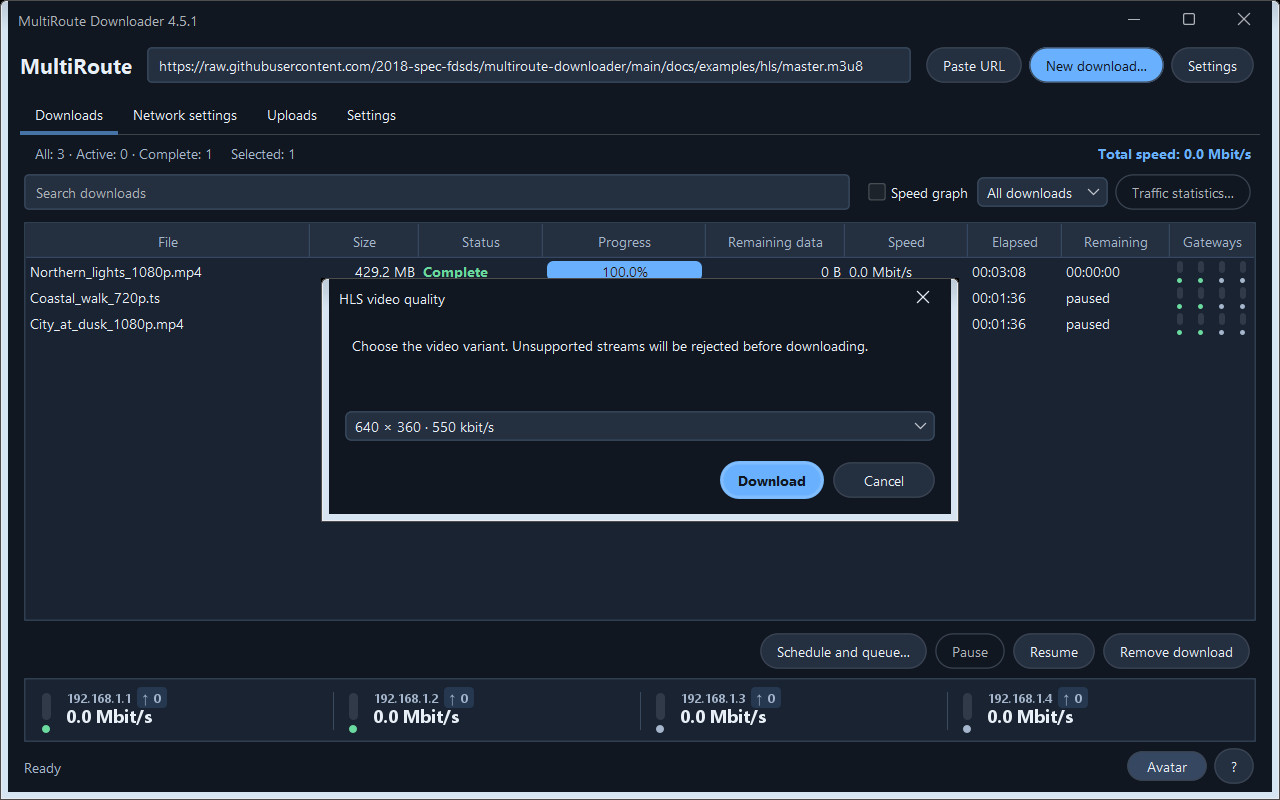
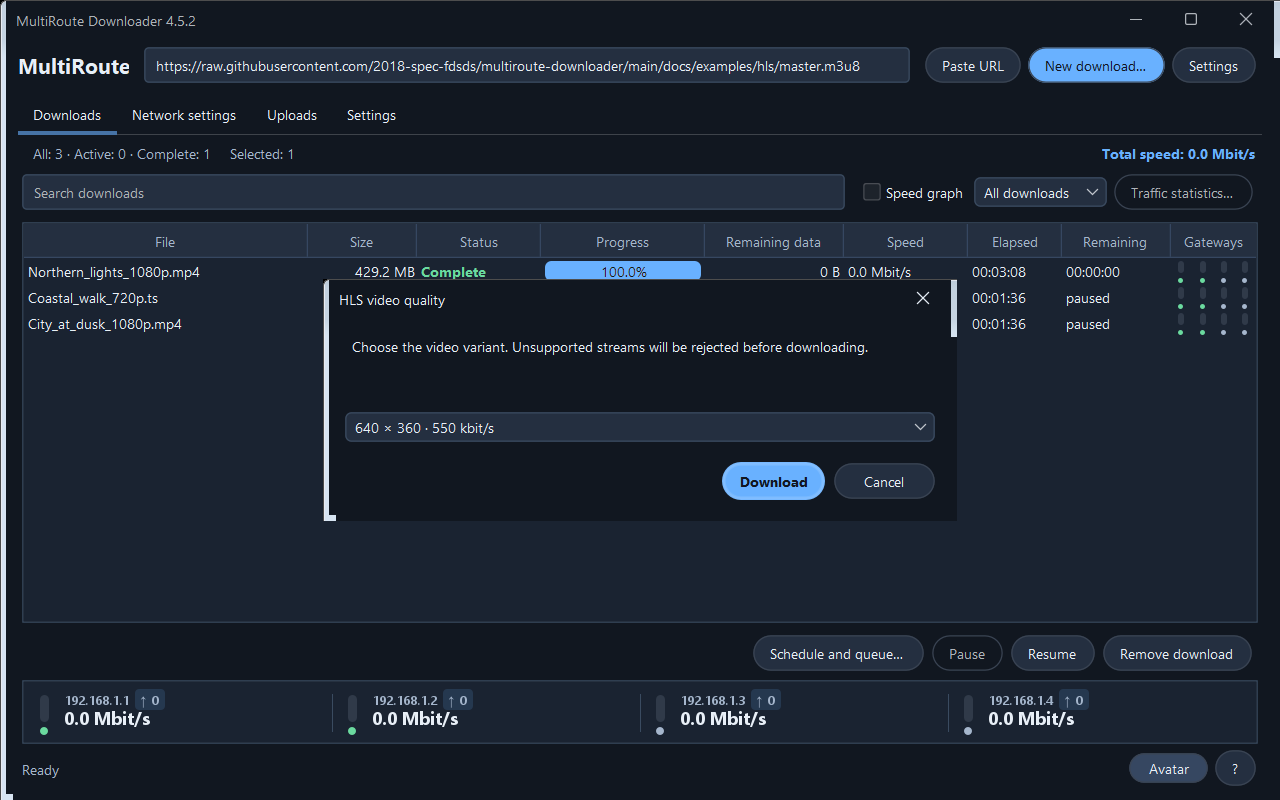
Update illustrated HLS walkthrough and current screenshots

diff --git a/docs/hls/HLS-CHROME-EDGE.ru.md b/docs/hls/HLS-CHROME-EDGE.ru.md
@@ -2,7 +2,7 @@
 
 [English](HLS-CHROME-EDGE.en.md)
 
-> Требуется **MultiRoute Downloader 4.5.0 или новее** и расширение с обнаружением HLS. Иллюстрации интерфейса сняты в 4.5.1. Установщики старых версий не получают HLS от наличия этой инструкции; проверьте номер своего приложения и доступные пакеты на [странице релизов](https://github.com/2018-spec-fdsds/multiroute-downloader/releases).
+> Требуется **MultiRoute Downloader 4.5.2 или новее** и расширение с обнаружением HLS. Иллюстрации интерфейса сняты в 4.5.2. Установщики старых версий не получают HLS от наличия этой инструкции; проверьте номер своего приложения и доступные пакеты на [странице релизов](https://github.com/2018-spec-fdsds/multiroute-downloader/releases).
 
 HLS-видео состоит из плейлиста и множества небольших медиафрагментов. Расширение по вашему запросу обнаруживает плейлист, MultiRoute предлагает доступное качество, скачивает фрагменты через выбранные шлюзы и собирает поддерживаемый видеофайл. Адрес страницы с плеером обычно отличается от адреса плейлиста.
 
@@ -55,6 +55,14 @@ HLS-видео состоит из плейлиста и множества не
 
 Это стандартная процедура локальной установки из документации [Chrome](https://developer.chrome.com/docs/extensions/get-started/tutorial/hello-world#load-unpacked) и [Microsoft Edge](https://learn.microsoft.com/en-us/microsoft-edge/extensions/getting-started/extension-sideloading).
 
+### Если расширение уже установлено — обновите именно его
+
+После обновления приложения откройте `chrome://extensions/` (Chrome) либо `edge://extensions/` (Edge). Найдите **карточку MultiRoute Downloader** и нажмите в ней **↻ / Перезагрузить**. В Chrome значок виден при включённом «Режиме разработчика». Проверьте версию расширения **4.5.2 или новее**, затем вернитесь на страницу с видео и откройте расширение заново.
+
+Кнопка **«Обновить список» внутри окна расширения** перечитывает список потоков; она не загружает новую версию расширения. Если после ↻ номер версии остаётся старым, проверьте путь загруженной папки: при стандартной Windows-установке это `%LOCALAPPDATA%\MultiRoute Downloader App\app\browser-extension`; путь своей установки можно открыть из настроек MultiRoute.
+
+Старые записи в разделе ошибок Chrome могут оставаться после исправления. Если снова появляется `Cannot create item with duplicate id multiroute-download`, проверьте номер версии и возникает ли ошибка заново после обновления; в 4.5.2 исправлена повторная регистрация этого пункта меню.
+
 ## 3. Найдите видеоплейлист
 
 1. Откройте страницу с видео в обычной HTTP/HTTPS-вкладке.
@@ -64,6 +72,9 @@ HLS-видео состоит из плейлиста и множества не
 5. Закройте всплывающее окно и **запустите видео**. Наблюдение видит будущие ответы с плейлистами; ранее загруженный плейлист оно задним числом не обнаружит.
 6. Снова откройте расширение. При необходимости нажмите **Обновить список** (**Refresh list**). Пока окно открыто, список также обновляется периодически.
 7. У нужного потока нажмите **Скачать этот поток** (**Download this stream**).
+
+
+Если запрос разрешения браузера закрыл окно расширения, после подтверждения откройте его снова. Если обнаружение осталось выключенным, повторно нажмите **Обнаруживать в этой вкладке**, затем запустите видео.
 
 ![Обнаружение HLS во вкладке и отправка потока](../images/hls/04-detect-hls-popup-ru.png)
 

diff --git a/docs/hls/HLS-CHROME-EDGE.en.md b/docs/hls/HLS-CHROME-EDGE.en.md
@@ -2,7 +2,7 @@
 
 [Русский](HLS-CHROME-EDGE.ru.md)
 
-> Requires **MultiRoute Downloader 4.5.0 or later** and an extension with HLS discovery. App illustrations use 4.5.1. This guide does not add HLS to older installers; check your app version and the packages on the [Releases page](https://github.com/2018-spec-fdsds/multiroute-downloader/releases).
+> Requires **MultiRoute Downloader 4.5.2 or later** and an extension with HLS discovery. App illustrations use 4.5.2. This guide does not add HLS to older installers; check your app version and the packages on the [Releases page](https://github.com/2018-spec-fdsds/multiroute-downloader/releases).
 
 HLS video is a playlist plus many small media fragments. MultiRoute discovers the playlist through an opt-in browser extension, lets you select an available quality, downloads fragments through your selected gateways and assembles a supported video file. The web page address and the playlist address are usually different.
 
@@ -51,6 +51,14 @@ Pin **MultiRoute Downloader** from the browser's Extensions menu if you want its
 
 These are the standard local installation procedures documented by [Chrome](https://developer.chrome.com/docs/extensions/get-started/tutorial/hello-world#load-unpacked) and [Microsoft Edge](https://learn.microsoft.com/en-us/microsoft-edge/extensions/getting-started/extension-sideloading).
 
+### Already installed? Reload the extension itself
+
+After updating the application, open `chrome://extensions/` or `edge://extensions/`. Find the **MultiRoute Downloader card** and click its **↻ / Reload** control. In Chrome, enable Developer mode if the icon is hidden. Confirm extension version **4.5.2 or newer**, return to the video page and open the extension again.
+
+**Refresh list inside the popup** refreshes stream metadata; it does not load updated extension files. If the version stays old, check the installed extension folder. The standard Windows folder is `%LOCALAPPDATA%\MultiRoute Downloader App\app\browser-extension`; open your installation's folder from MultiRoute settings.
+
+Old Chrome error records can remain after a fix. If `Cannot create item with duplicate id multiroute-download` appears again, check the loaded version and whether a new error is generated after reloading. Repeated menu registration is corrected in 4.5.2.
+
 ## 3. Discover the video playlist
 
 1. Open the page containing the video in a normal HTTP/HTTPS tab.
@@ -60,6 +68,9 @@ These are the standard local installation procedures documented by [Chrome](http
 5. Close the popup and **play the video**. Detection observes future playlist responses; it cannot retroactively discover a playlist loaded before you enabled it.
 6. Open the popup again. Click **Refresh list** if needed. The list also refreshes while the popup is open.
 7. Find the relevant stream and click **Download this stream**.
+
+
+If the browser permission dialog closes the extension popup, reopen it after granting access. If detection is still off, click **Detect in this tab** again, then play the video.
 
 ![Detect HLS in the current tab and send a stream](../images/hls/04-detect-hls-popup-en.png)
 
